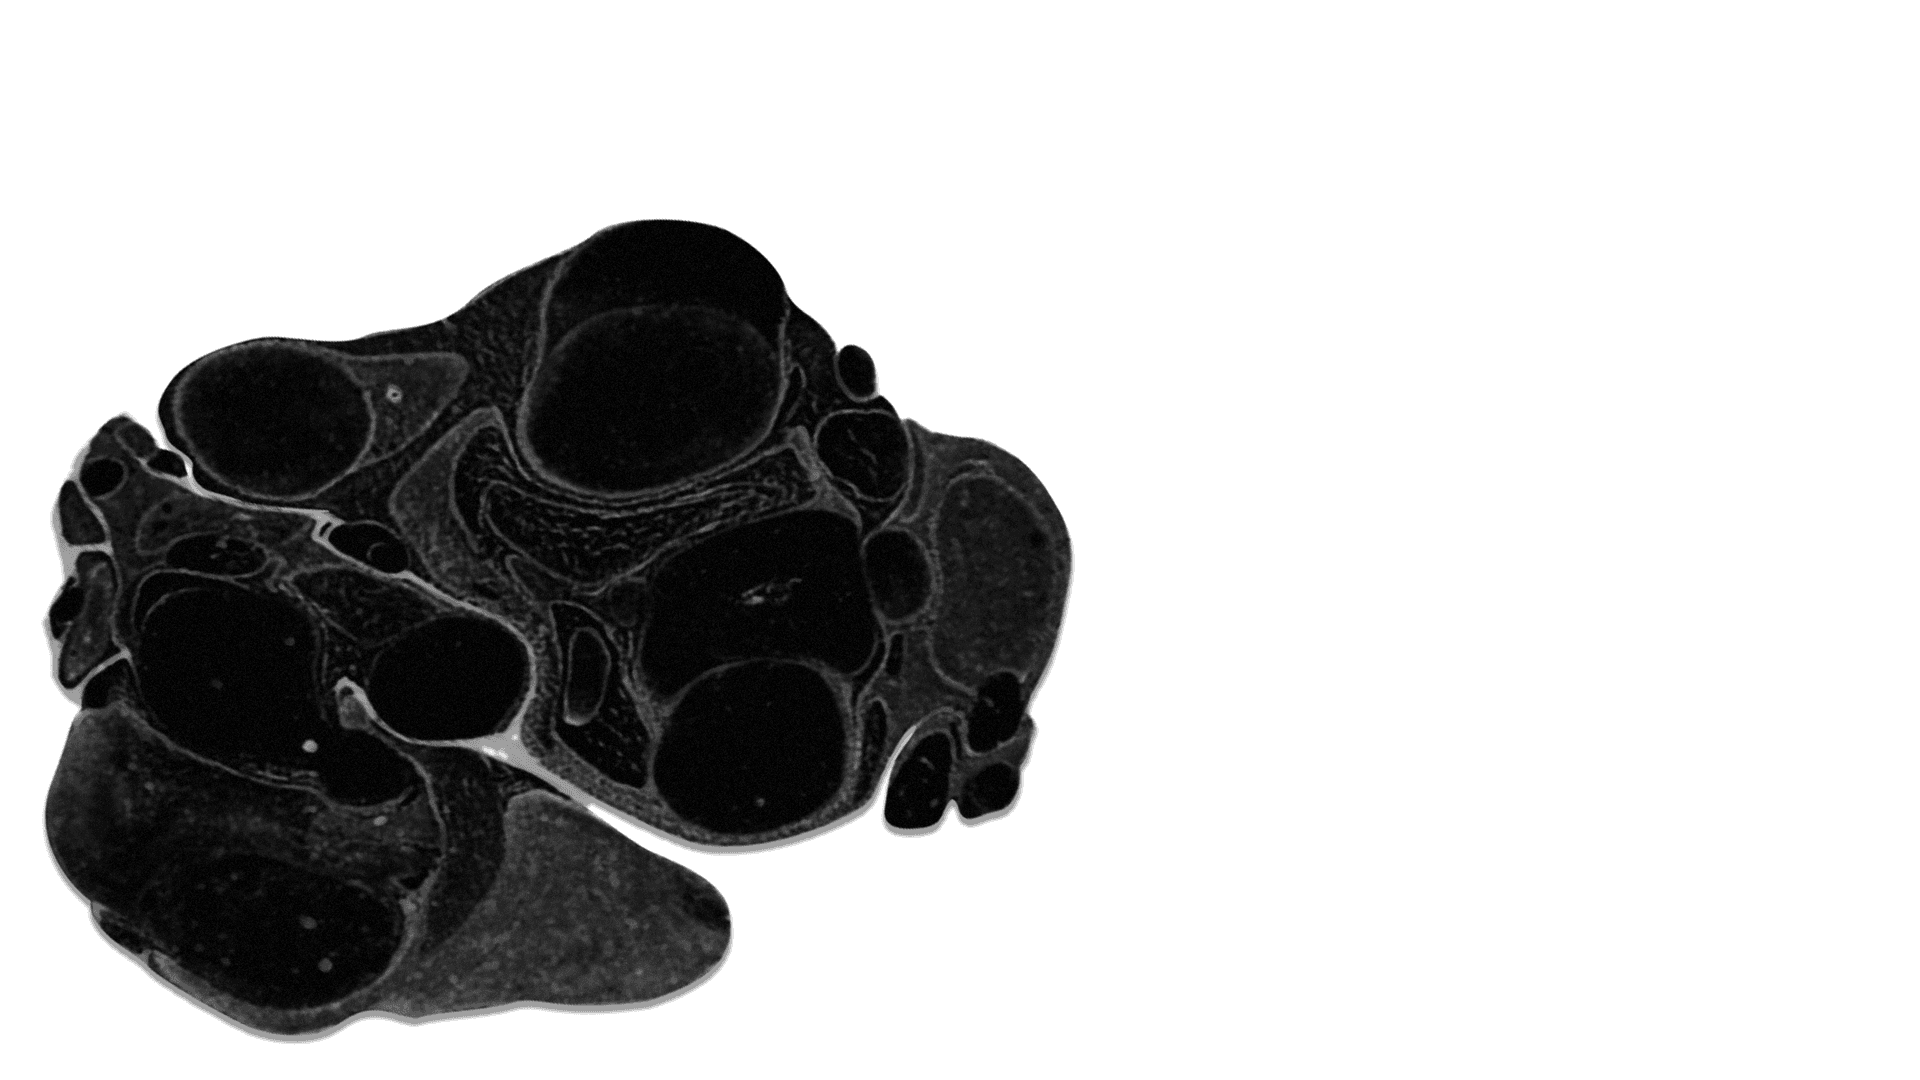
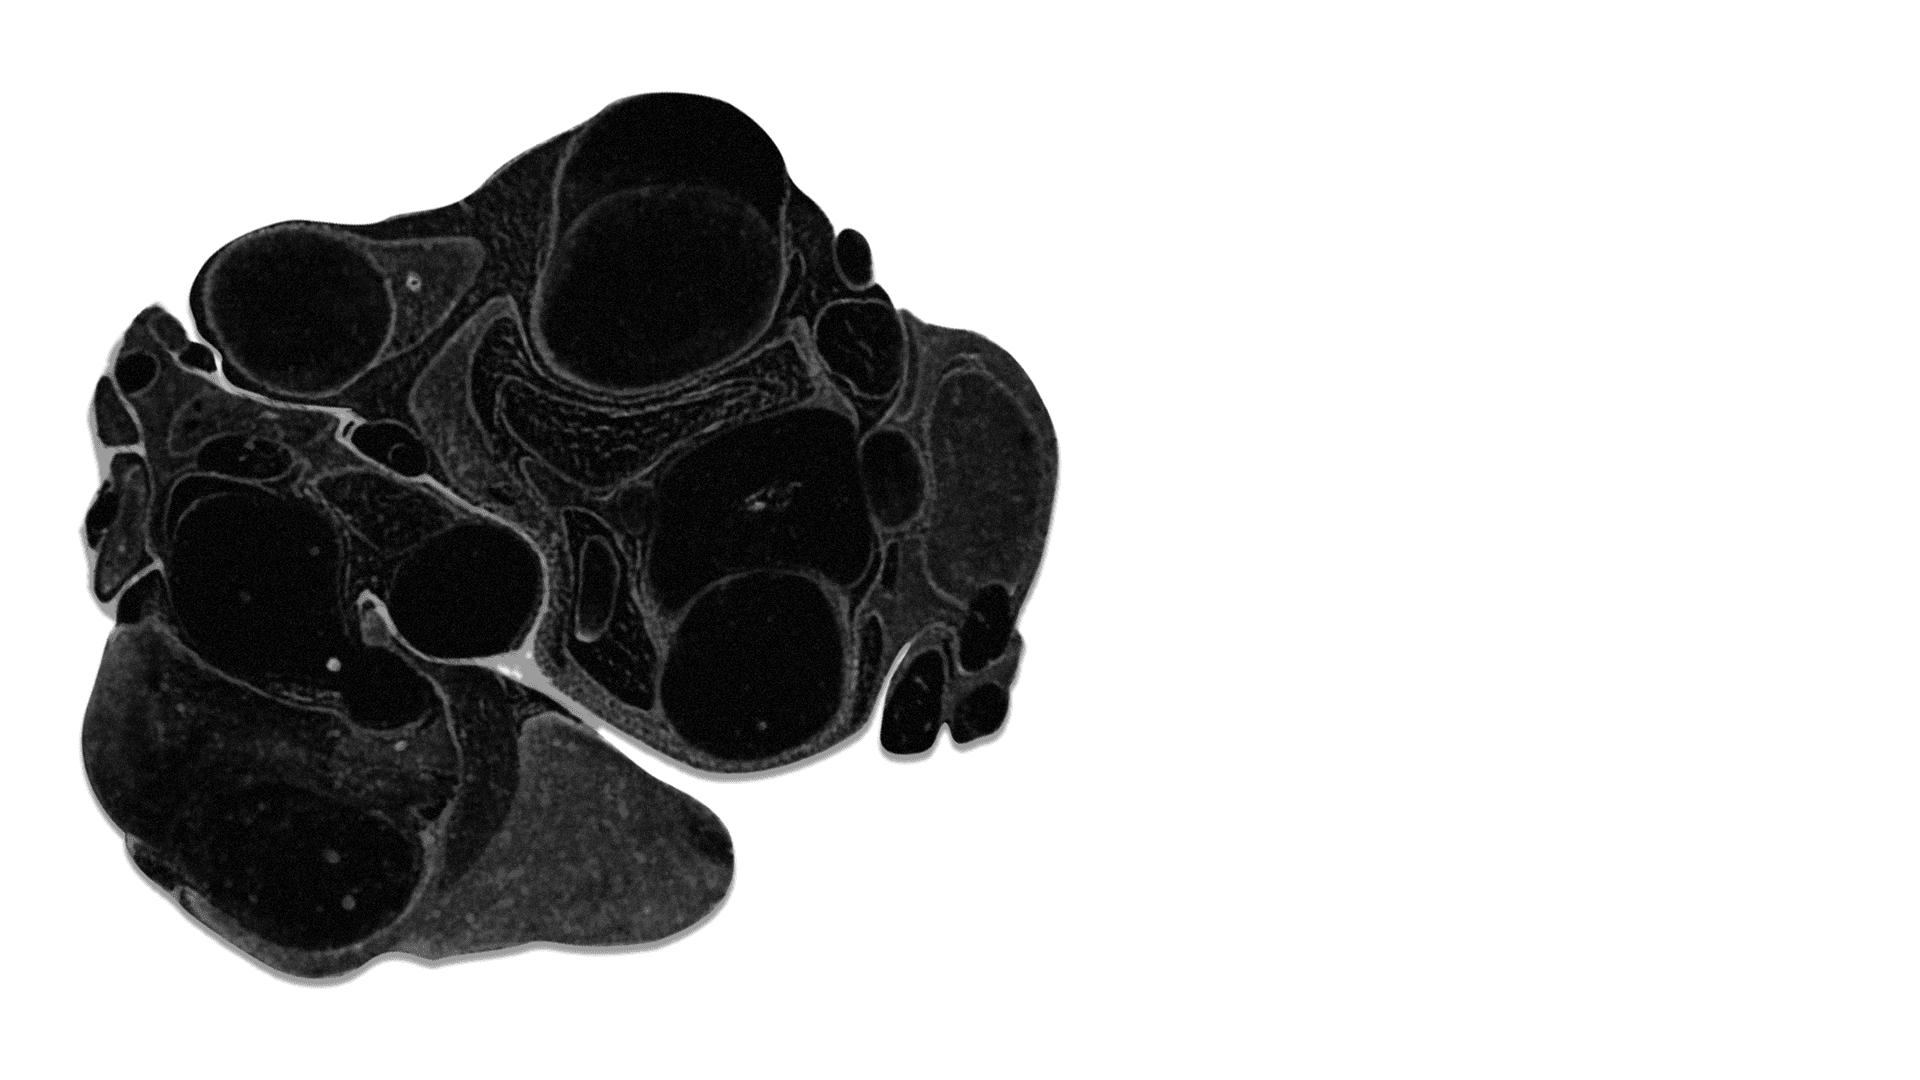
Make new carousel structure with form and background

Changed region(s): [[0.0, 0.0611, 0.5625, 0.9778]]

diff --git a/src/javascript/components/Carousel.class.js b/src/javascript/components/Carousel.class.js
@@ -10,8 +10,9 @@ class Carousel {
       STORAGE.stage.addChild(this.carousel)
 
       this.spritesFonds = {}
+      this.spritesForms = {}
       this.assets = {}
-      this.totalCarouselHeight = 0
+      this.totalHeightSteps = [0]
       STORAGE.ratioVertical = 1
 
       this.blackboards = []
@@ -25,7 +26,59 @@ class Carousel {
         'assets/before-challenge-1/carousel-1.jpg',
         'assets/before-challenge-1/carousel-2.jpg',
         'assets/before-challenge-1/carousel-3.jpg',
+        'assets/before-challenge-1/carousel-4.jpg',
+        'assets/before-challenge-1/carousel-5.jpg',
+        'assets/before-challenge-1/carousel-6.jpg',
+        'assets/before-challenge-1/carousel-7.jpg',
+        'assets/before-challenge-1/carousel-8.jpg',
+        'assets/before-challenge-1/carousel-9.jpg',
+        'assets/before-challenge-1/carousel-10.jpg',
+        'assets/before-challenge-1/carousel-11.jpg',
+        'assets/before-challenge-1/0-forme-1.png',
+        'assets/before-challenge-1/0-forme-2.png',
+        'assets/before-challenge-1/0-forme-3.png',
         'assets/before-challenge-1/1-forme-1.png',
+        'assets/before-challenge-1/1-forme-2.png',
+        'assets/before-challenge-1/1-forme-3.png',
+        'assets/before-challenge-1/1-forme-4.png',
+        'assets/before-challenge-1/2-forme-1.png',
+        'assets/before-challenge-1/2-forme-2.png',
+        'assets/before-challenge-1/2-forme-3.png',
+        'assets/before-challenge-1/2-forme-4.png',
+        'assets/before-challenge-1/3-forme-1.png',
+        'assets/before-challenge-1/3-forme-2.png',
+        'assets/before-challenge-1/3-forme-3.png',
+        'assets/before-challenge-1/3-forme-4.png',
+        'assets/before-challenge-1/4-forme-1.png',
+        'assets/before-challenge-1/4-forme-2.png',
+        'assets/before-challenge-1/4-forme-3.png',
+        'assets/before-challenge-1/4-forme-4.png',
+        'assets/before-challenge-1/4-forme-5.png',
+        'assets/before-challenge-1/4-forme-6.png',
+        'assets/before-challenge-1/4-forme-7.png',
+        'assets/before-challenge-1/5-forme-1.png',
+        'assets/before-challenge-1/5-forme-2.png',
+        'assets/before-challenge-1/5-forme-3.png',
+        'assets/before-challenge-1/5-forme-4.png',
+        'assets/before-challenge-1/6-forme-1.png',
+        'assets/before-challenge-1/6-forme-2.png',
+        'assets/before-challenge-1/6-forme-3.png',
+        'assets/before-challenge-1/6-forme-4.png',
+        'assets/before-challenge-1/7-forme-1.png',
+        'assets/before-challenge-1/7-forme-2.png',
+        'assets/before-challenge-1/7-forme-3.png',
+        'assets/before-challenge-1/7-forme-4.png',
+        'assets/before-challenge-1/7-forme-5.png',
+        'assets/before-challenge-1/8-forme-1.png',
+        'assets/before-challenge-1/8-forme-2.png',
+        'assets/before-challenge-1/8-forme-3.png',
+        'assets/before-challenge-1/8-forme-4.png',
+        'assets/before-challenge-1/8-forme-5.png',
+        'assets/before-challenge-1/8-forme-6.png',
+        'assets/before-challenge-1/9-forme-1.png',
+        'assets/before-challenge-1/9-forme-2.png',
+        'assets/before-challenge-1/9-forme-3.png',
+        'assets/before-challenge-1/10-forme-1.png',
       ])
     }
 
@@ -51,7 +104,13 @@ class Carousel {
 
       Object.keys(this.assets.resources).map(function(objectKey, index) {
         const sprite = new PIXI.Sprite(that.assets.resources[objectKey].texture)
-        that.spritesFonds[objectKey] = sprite
+
+        if (objectKey.split('.')[1] == 'jpg') {
+          that.spritesFonds[objectKey] = sprite
+        } else if (objectKey.split('.')[1] == 'png') {
+          that.spritesForms[objectKey] = sprite
+        }
+
         that.carousel.addChild(sprite)
       })
       this.makeCarousel()
@@ -60,12 +119,25 @@ class Carousel {
     makeCarousel() {
       let that = this
       Object.keys(that.spritesFonds).map(function(objectKey, index) {
-        STORAGE.ratioHorizontal= window.innerWidth / that.spritesFonds[objectKey].texture.width // calcul ratio vetical
-        that.spritesFonds[objectKey].scale = new PIXI.Point(STORAGE.ratioHorizontal, STORAGE.ratioHorizontal) // redimensionnement : img = taille fenêtre
-        that.spritesFonds[objectKey].y = that.totalCarouselHeight
-        that.totalCarouselHeight += that.spritesFonds[objectKey].height
+          STORAGE.ratioHorizontal = window.innerWidth / that.spritesFonds[objectKey].texture.width
+          that.spritesFonds[objectKey].scale = new PIXI.Point(STORAGE.ratioHorizontal, STORAGE.ratioHorizontal)
+          that.spritesFonds[objectKey].y = that.totalHeightSteps[that.totalHeightSteps.length -1]
+          that.totalHeightSteps.push(that.totalHeightSteps[that.totalHeightSteps.length -1] + that.spritesFonds[objectKey].height)
+          that.spritesFonds[objectKey].zIndex = 1
       })
-      that.totalCarouselHeight = 0
+
+      Object.keys(that.spritesForms).map(function(objectKey, index) {
+        STORAGE.ratioHorizontal = window.innerWidth / that.spritesForms[objectKey].texture.width
+        that.spritesForms[objectKey].scale = new PIXI.Point(STORAGE.ratioHorizontal, STORAGE.ratioHorizontal)
+        // that.spritesForms[objectKey].x = window.innerWidth / 2 - that.spritesForms[objectKey].width / 2
+        // console.log( window.innerWidth / 2 - that.spritesForms[objectKey].width / 2)
+        let position = objectKey.split('.')[0].split('/')[2].split('-')[0]
+        that.spritesForms[objectKey].y = that.totalHeightSteps[position]
+        that.spritesForms[objectKey].zIndex = 2
+        console.log(that.spritesForms[objectKey].zIndex)
+      })
+
+      that.totalHeightSteps = [0]
 
       for (var i = 0; i < this.blackboards.length; i++) {
         this.blackboards[i].blackboard.destroy()
